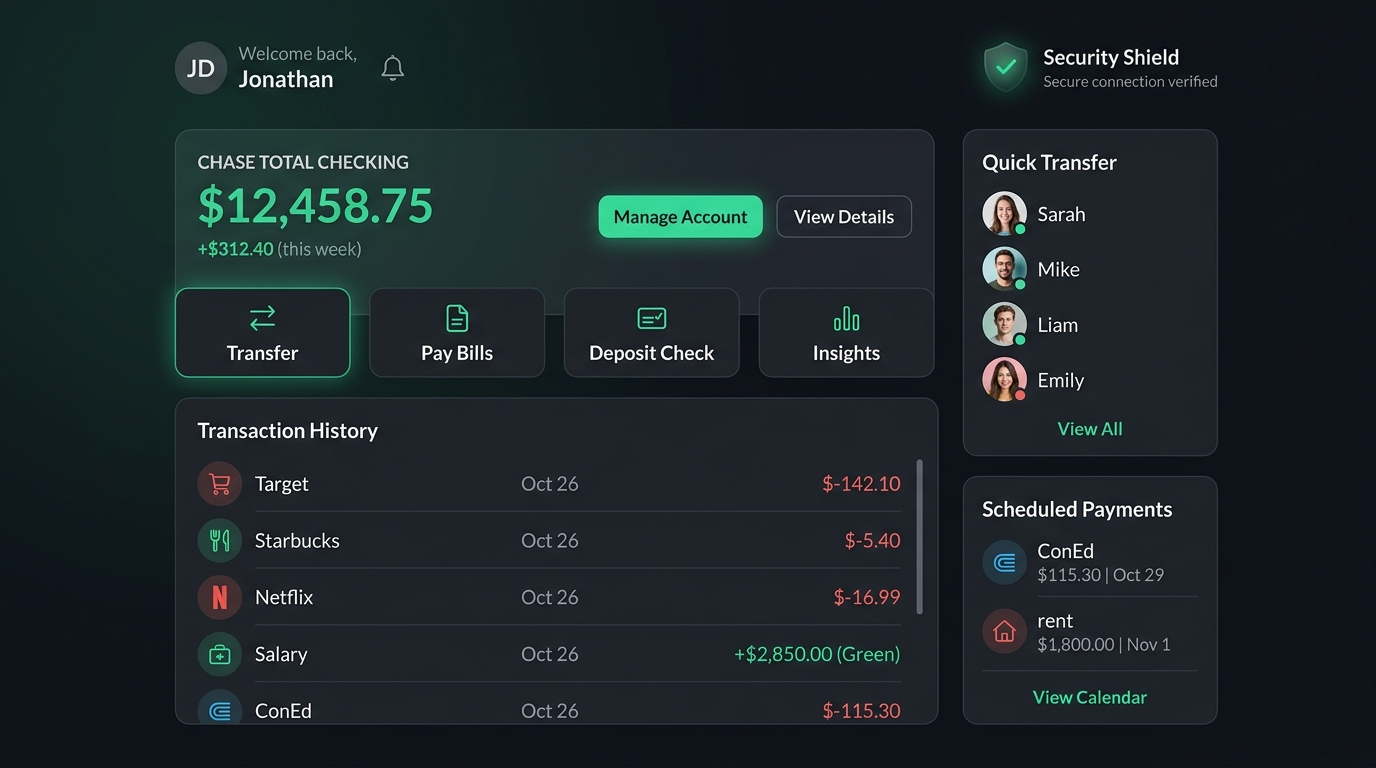
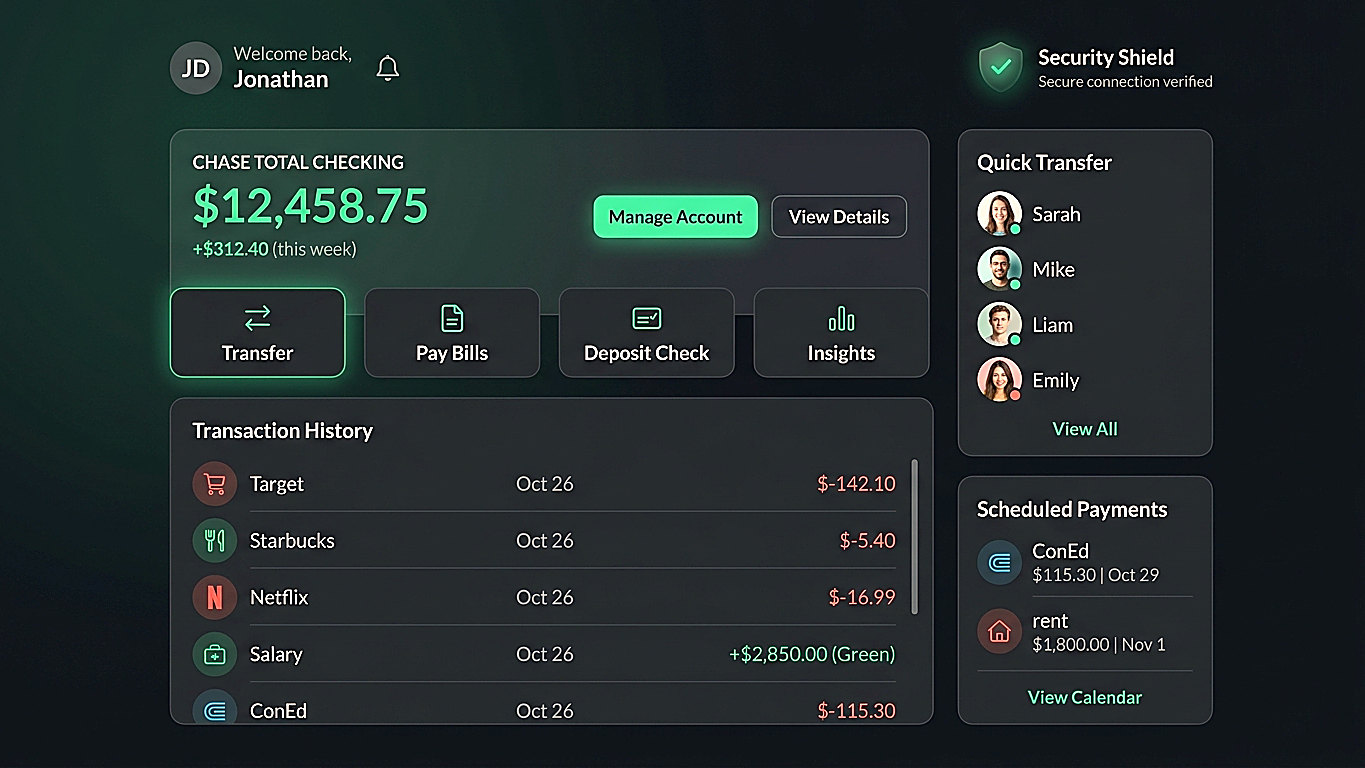
Enhance scalable-ecommerce, banking and eazeworkflow imagery

diff --git a/scripts/enhance_images.py b/scripts/enhance_images.py
@@ -1,0 +1,210 @@
+#!/usr/bin/env python3
+"""Polish project imagery: trim letterbox padding, reframe, tone-match to the
+portfolio family, apply a light gold/cream grade, sharpen, and re-encode.
+
+PIL-only (no numpy) so it runs anywhere the site builds.
+
+Usage: python3 scripts/enhance_images.py [--dry-run]
+"""
+import sys
+from pathlib import Path
+
+from PIL import Image, ImageFilter, ImageOps, ImageStat
+
+ROOT = Path("public/projects")
+
+COVERS = ["ecommerce.jpg", "banking.jpg", "eazeworkflow.jpg"]
+
+DETAILS = [
+    "scalable-ecommerce-detail-1.jpg",
+    "scalable-ecommerce-detail-2.jpg",
+    "scalable-ecommerce-detail-3.jpg",
+    "distributed-banking-detail-1.jpg",
+    "distributed-banking-detail-2.jpg",
+    "distributed-banking-detail-3.jpg",
+    "eazeworkflow-detail-1.jpg",
+    "eazeworkflow-detail-2.jpg",
+    "eazeworkflow-detail-3.jpg",
+]
+
+DETAIL_SIZE = (640, 480)
+
+# family targets (gamma-code / aerotrack / workflow-builder sit here)
+TARGET_MEAN = 42.0
+TARGET_STD = 33.0
+
+WARM_R = lambda i: min(255, int(i * 1.05 + 1))   # noqa: E731
+WARM_G = lambda i: min(255, int(i * 1.005))      # noqa: E731
+WARM_B = lambda i: int(i * 0.93)                 # noqa: E731
+
+
+def gamma_lut(hist, total, target, gmin=0.85, gmax=1.15):
+    """Gamma that nudges the mean toward `target`, clamped so the image keeps
+    its character (a bright product shot must not be crushed to a dark one)."""
+    lo, hi = 0.3, 3.0
+    g = 1.0
+    for _ in range(24):
+        g = (lo + hi) / 2
+        lut = [255.0 * ((i / 255.0) ** g) for i in range(256)]
+        mean = sum(hist[i] * lut[i] for i in range(256)) / total
+        if mean < target:
+            hi = g  # too dark -> need a smaller exponent
+        else:
+            lo = g
+    g = max(gmin, min(gmax, g))
+    return [int(round(255.0 * ((i / 255.0) ** g))) for i in range(256)]
+
+
+def trim_letterbox(im, tol=4.0, gap=28.0, max_trim=0.06):
+    """Crop uniform edge bars that differ strongly from their neighbour strip."""
+    w, h = im.size
+    box = [0, 0, w, h]
+    changed = True
+    while changed:
+        changed = False
+        x0, y0, x1, y1 = box
+        w0, h0 = x1 - x0, y1 - y0
+        limit = int(max(w0, h0) * max_trim)
+        if limit < 4:
+            break
+        strips = {
+            "top": (x0, y0, x1, min(y0 + 3, y1)),
+            "bottom": (x0, max(y1 - 3, y0), x1, y1),
+            "left": (x0, y0, min(x0 + 3, x1), y1),
+            "right": (max(x1 - 3, x0), y0, x1, y1),
+        }
+        inner = {
+            "top": (x0, min(y0 + 6, y1), x1, min(y0 + 12, y1)),
+            "bottom": (x0, max(y1 - 12, y0), x1, max(y1 - 6, y0)),
+            "left": (min(x0 + 6, x1), y0, min(x0 + 12, x1), y1),
+            "right": (max(x1 - 12, x0), y0, max(x1 - 6, x0), y1),
+        }
+        for side in ("top", "bottom", "left", "right"):
+            edge = im.crop(strips[side]).convert("L")
+            near = im.crop(inner[side]).convert("L")
+            es, ns = ImageStat.Stat(edge), ImageStat.Stat(near)
+            if es.stddev[0] < tol and abs(es.mean[0] - ns.mean[0]) > gap:
+                if side == "top":
+                    box[1] += 3
+                elif side == "bottom":
+                    box[3] -= 3
+                elif side == "left":
+                    box[0] += 3
+                else:
+                    box[2] -= 3
+                changed = True
+                break
+        if box[0] + 12 > box[2] or box[1] + 12 > box[3]:
+            break
+    if tuple(box) != (0, 0, w, h):
+        return im.crop(tuple(box))
+    return im
+
+
+def apply_band_lut(im, lut):
+    r, g, b = im.split()
+    return Image.merge("RGB", (r.point(lut), g.point(lut), b.point(lut)))
+
+
+def fit_aspect(im, aspect):
+    """Center-crop (top-weighted for covers) so a resize never stretches."""
+    w, h = im.size
+    cur = w / h
+    if abs(cur - aspect) < 0.01:
+        return im
+    if cur > aspect:
+        nw = int(round(h * aspect))
+        x = (w - nw) // 2
+        return im.crop((x, 0, x + nw, h))
+    nh = int(round(w / aspect))
+    return im.crop((0, 0, w, nh))
+
+
+def tone(im, target_mean, target_std):
+    """Contrast only when the image is flat (scaled about its own mean so dark
+    UI backgrounds stay dark), then a clamped gamma nudge toward the family
+    brightness. Bright product shots are pulled gently, never crushed."""
+    gray = im.convert("L")
+    st = ImageStat.Stat(gray)
+    mean, std = st.mean[0], st.stddev[0]
+
+    if std < 31:
+        factor = max(1.0, min(1.3, target_std / max(std, 1)))
+        m = int(round(mean))
+        lut = [max(0, min(255, int(round(m + (v - m) * factor)))) for v in range(256)]
+        im = apply_band_lut(im, lut)
+        st = ImageStat.Stat(im.convert("L"))
+        mean = st.mean[0]
+
+    goal = target_mean if mean < 55 else max(target_mean, 60)
+    if abs(mean - goal) > 3:
+        hist = im.convert("L").histogram()
+        im = apply_band_lut(im, gamma_lut(hist, sum(hist), goal))
+    return im
+
+
+def warm(im):
+    r, g, b = im.split()
+    r = r.point(WARM_R)
+    g = g.point(WARM_G)
+    b = b.point(WARM_B)
+    return Image.merge("RGB", (r, g, b))
+
+
+def sharpen(im, radius, percent, threshold=3):
+    return im.filter(ImageFilter.UnsharpMask(radius=radius, percent=percent, threshold=threshold))
+
+
+def stats(im):
+    st = ImageStat.Stat(im.convert("L"))
+    g = im.convert("L").filter(
+        ImageFilter.Kernel((3, 3), [-1, -1, -1, -1, 8, -1, -1, -1, -1], scale=1, offset=128)
+    )
+    return st.mean[0], st.stddev[0], ImageStat.Stat(g).stddev[0]
+
+
+def process(path: Path, kind: str, dry: bool):
+    src = Image.open(path).convert("RGB")
+    before = stats(src)
+    b0 = path.stat().st_size
+
+    im = trim_letterbox(src)
+    trimmed = src.size != im.size
+
+    if kind == "detail":
+        im = fit_aspect(im, DETAIL_SIZE[0] / DETAIL_SIZE[1])
+        if im.size != DETAIL_SIZE:
+            im = im.resize(DETAIL_SIZE, Image.LANCZOS)
+        im = tone(im, TARGET_MEAN, TARGET_STD)
+        im = warm(im)
+        im = sharpen(im, 1.1, 150, threshold=2)
+    else:
+        im = fit_aspect(im, 16 / 9)
+        im = tone(im, TARGET_MEAN, TARGET_STD)
+        im = warm(im)
+        im = sharpen(im, 1.5, 110, threshold=2)
+
+    after = stats(im)
+    print(
+        f"{path.name:36} {src.size}{' -> ' + str(im.size) if im.size != src.size else '':12} "
+        f"trim={'y' if trimmed else 'n'} "
+        f"mean {before[0]:5.1f}->{after[0]:5.1f}  "
+        f"std {before[1]:5.1f}->{after[1]:5.1f}  "
+        f"sharp {before[2]:5.1f}->{after[2]:5.1f}  "
+        f"{b0 // 1024}KB"
+    )
+    if not dry:
+        im.save(path, "JPEG", quality=86, optimize=True, progressive=True, subsampling=0)
+        print(f"{'':36} saved {path.stat().st_size // 1024}KB")
+
+
+def main():
+    dry = "--dry-run" in sys.argv
+    for name in COVERS:
+        process(ROOT / name, "cover", dry)
+    for name in DETAILS:
+        process(ROOT / name, "detail", dry)
+
+
+if __name__ == "__main__":
+    main()
